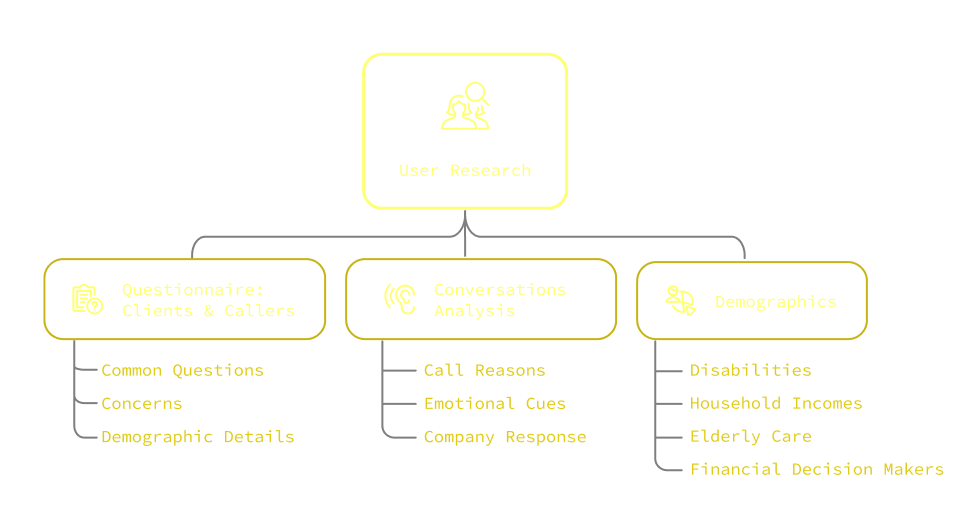
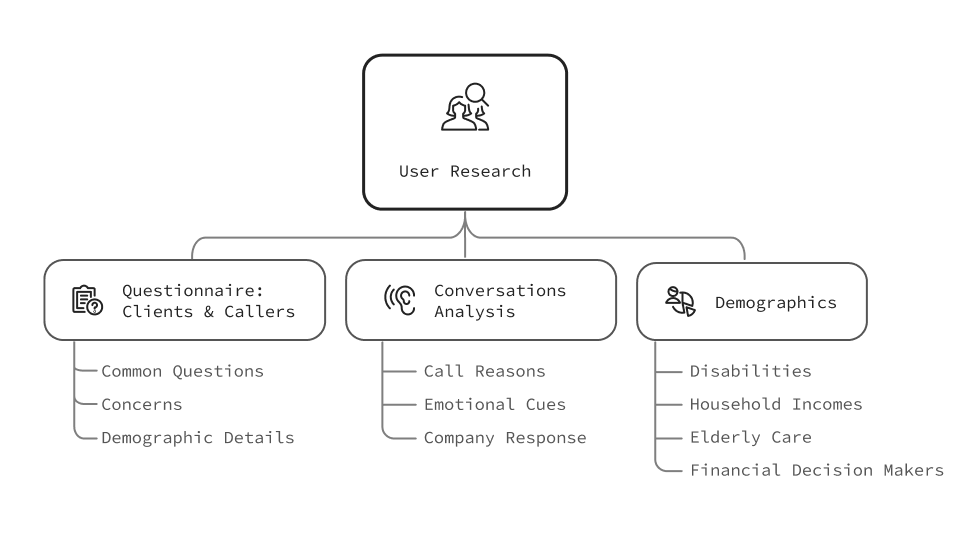
clean up images and css styles

diff --git a/styles/style.scss b/styles/style.scss
@@ -9,13 +9,14 @@
     text-rendering: optimizeLegibility;
 }
 
-// VARIABLES
-// FONTS
+/// VARIABLES
+// Fonts
 $display-font: "Lemon", serif;
 $body-font: "IBM Plex Sans", sans-serif;
 /* Color styles */
 $candy-white: #FFFEFA;
 $candy-black: #222222;
+$candy-black080: #464646;
 $candy-background: #FFFBE7;
 $candy-pink050: #FBDBE5;
 $candy-pink: #F5B7CA;
@@ -30,41 +31,8 @@ $candy-link-inline: #2B40D9;
 $candy-purple: #A541D1;
 $candy-fucsia: #D406A1;
 
-/* Text-size styles 
---candy---h2: 60px;
---candy---h3: 26px;
---candy---h4: 22px;
---candy---h5: 20px;
---candy--p: 18px;
---candy--tag: 14px;
---candy--link--link-hover: 16px;
---candy--link--nav: 20px;
---candy--button--label: 20px;
-*/
-/* Effect styles 
---area: inset -4px -4px 8px rgba(255, 255, 255, 0.4),inset 4px 4px 12px rgba(0, 0, 0, 0.25);
---button-shadow:  0px 8px 8px rgba(0, 0, 0, 0.25);
---card-shadow:  0px 4px 4px rgba(120, 120, 120, 0.25);
---section--h2-shadow:  0px 2px 2px rgba(0, 0, 0, 0.5);
---sticker-shadow:  0px 10px 8px rgba(0, 0, 0, 0.25);*/
-
 //shadows
 $button-shadow: 0px 8px 8px rgba(0, 0, 0, 0.25);
-
-// COLORS
-$yellow030: rgba(228, 228, 10, .3);
-$yellow050: rgba(228, 228, 10, .5);
-$yellow080: rgba(228, 228, 10, .8);
-$yellow100: #4f4f94;
-$yellow000: #271d94;
-$yellow110: #464608;
-$white080: rgb(210, 210, 210);
-$white100: rgb(238, 238, 238);
-$whiteFFF: rgba(255, 255, 255);
-$pink100: #fb54a8;
-$pink040: #8f3a64;
-$black100: #0e0e0e;
-
 
 // DIMENSIONS
 @mixin mobile {
@@ -86,38 +54,6 @@ $black100: #0e0e0e;
 }
 
 // BORDERS
-@mixin outline-dashed() {
-    border-radius: 1px;
-    outline: 1px solid $yellow050;
-    outline-offset: 4px;
-}
-
-@mixin outline-hover {
-    border-radius: 1px;
-    outline: 1px solid $white100;
-    outline-offset: 4px;
-}
-
-@mixin border-dashed ($borderWidth, $color) {
-    color: $color;
-    border-radius: 1px;
-    border-style: dashed;
-    border-top-width: $borderWidth;
-    border-right-width: $borderWidth;
-    border-bottom-width: $borderWidth;
-    border-left-width: $borderWidth;
-}
-
-@mixin border-solid ($borderWidth, $radius, $color) {
-    color: $color;
-    border-radius: $radius;
-    border-style: solid;
-    border-top-width: $borderWidth;
-    border-right-width: $borderWidth;
-    border-bottom-width: $borderWidth;
-    border-left-width: $borderWidth;
-}
-
 @mixin border-1side-solid ($borderTopWidth, $borderRightWidth, $borderBottomWidth, $borderLeftWidth, $color) {
     color: $color;
     border-style: solid;
@@ -432,7 +368,7 @@ footer {
     p.label {
         line-height: 100%;
         margin: 12px 0 2px 0;
-        color: $yellow100;
+        color: $candy-yellow;
         width: 100%;
         padding: 0;
     }
@@ -700,7 +636,7 @@ footer {
     margin: 16px 0;
 
     .card-process-image {
-        border: 1px solid $yellow080;
+        border: 1px solid $candy-yellow150;
         min-width: 40px;
         display: none;
     }
@@ -755,9 +691,7 @@ footer {
 
 
 // WRAPPERS 
-.wrapper-border {
-    @include border-dashed(1px, $yellow030);
-}
+
 
 .wrapper-contacts {
     display: grid;
@@ -928,11 +862,11 @@ a.link {
     }
 
     &.disabled {
-        color: $yellow050;
+        color: #777;
         cursor: not-allowed;
 
         svg {
-            fill: $yellow050;
+            fill: #777;
         }
     }
 
@@ -1052,7 +986,7 @@ a.link {
 
 figcaption,
 details summary {
-    color: $yellow080;
+    color: $candy-yellow150
 }
 
 img {
@@ -1214,7 +1148,7 @@ strong {
     p {
         margin: 0;
         padding: 0;
-        color: $black100;
+        color: $candy-black;
     }
 
     ol,
@@ -1225,7 +1159,7 @@ strong {
 
     p,
     li {
-        color: $black100;
+        color: $candy-black;
         font-size: 0.75em;
         line-height: 14px;
         margin-bottom: 0;
@@ -1662,7 +1596,7 @@ strong {
 
     img {
         margin-bottom: 4px;
-        @include border-1side-solid(1px, 1px, 1px, 1px, $yellow050);
+        @include border-1side-solid(1px, 1px, 1px, 1px, $candy-yellow150);
 
         &.no-border {
             border: none;
@@ -1740,7 +1674,7 @@ strong {
     }
 
     details {
-        color: $white080;
+        color: $candy-black;
 
         summary {
             color: $candy-black;
@@ -1749,8 +1683,6 @@ strong {
     }
 
 }
-
-
 
 
 // GRIDS
@@ -1790,11 +1722,6 @@ strong {
     .section-header {
         padding-bottom: 16px;
     }
-
-    //.resume-column {
-    //padding-left: 24px;
-    //padding-right: 24px;
-    //}
 
     img {
         width: 48px;
@@ -2247,7 +2174,7 @@ figure {
         }
 
         .p {
-            color: $white080;
+            color: $candy-black;
             font-size: 1em;
         }
     }
@@ -2273,9 +2200,9 @@ figure {
     }
 
     p.label {
-        font-size: .8em;
+        font-size: .9em;
         font-style: italic;
-        
+        color: $candy-pink150;        
     }
 
     .protos-header {

diff --git a/styles/style.css b/styles/style.css
@@ -9,23 +9,6 @@
 }
 
 /* Color styles */
-/* Text-size styles 
---candy---h2: 60px;
---candy---h3: 26px;
---candy---h4: 22px;
---candy---h5: 20px;
---candy--p: 18px;
---candy--tag: 14px;
---candy--link--link-hover: 16px;
---candy--link--nav: 20px;
---candy--button--label: 20px;
-*/
-/* Effect styles 
---area: inset -4px -4px 8px rgba(255, 255, 255, 0.4),inset 4px 4px 12px rgba(0, 0, 0, 0.25);
---button-shadow:  0px 8px 8px rgba(0, 0, 0, 0.25);
---card-shadow:  0px 4px 4px rgba(120, 120, 120, 0.25);
---section--h2-shadow:  0px 2px 2px rgba(0, 0, 0, 0.5);
---sticker-shadow:  0px 10px 8px rgba(0, 0, 0, 0.25);*/
 html {
   height: 100%;
 }
@@ -279,7 +262,7 @@ footer {
 .overview-grid p.label {
   line-height: 100%;
   margin: 12px 0 2px 0;
-  color: #4f4f94;
+  color: #FCC047;
   width: 100%;
   padding: 0;
 }
@@ -481,7 +464,7 @@ footer {
   margin: 16px 0;
 }
 .card-process .card-process-image {
-  border: 1px solid rgba(228, 228, 10, 0.8);
+  border: 1px solid #B87E0A;
   min-width: 40px;
   display: none;
 }
@@ -523,16 +506,6 @@ footer {
     width: 100%;
     display: block;
   }
-}
-
-.wrapper-border {
-  color: rgba(228, 228, 10, 0.3);
-  border-radius: 1px;
-  border-style: dashed;
-  border-top-width: 1px;
-  border-right-width: 1px;
-  border-bottom-width: 1px;
-  border-left-width: 1px;
 }
 
 .wrapper-contacts {
@@ -672,11 +645,11 @@ a.link.link-nav-nav {
   font-weight: 700;
 }
 a.link.disabled {
-  color: rgba(228, 228, 10, 0.5);
+  color: #777;
   cursor: not-allowed;
 }
 a.link.disabled svg {
-  fill: rgba(228, 228, 10, 0.5);
+  fill: #777;
 }
 a.link .hidden {
   visibility: hidden;
@@ -769,7 +742,7 @@ a.link:focus-visible .icon-house, a.link:hover:not(:disabled):not([disabled]) .i
 
 figcaption,
 details summary {
-  color: rgba(228, 228, 10, 0.8);
+  color: #B87E0A;
 }
 
 img {
@@ -919,7 +892,7 @@ strong {
 .wrapper-visual p {
   margin: 0;
   padding: 0;
-  color: #0e0e0e;
+  color: #222222;
 }
 .wrapper-visual ol,
 .wrapper-visual ul {
@@ -927,7 +900,7 @@ strong {
 }
 .wrapper-visual p,
 .wrapper-visual li {
-  color: #0e0e0e;
+  color: #222222;
   font-size: 0.75em;
   line-height: 14px;
   margin-bottom: 0;
@@ -1271,7 +1244,7 @@ strong {
 .case-study .case-study-tltr img,
 .case-study .case-study-full img {
   margin-bottom: 4px;
-  color: rgba(228, 228, 10, 0.5);
+  color: #B87E0A;
   border-style: solid;
   border-top-width: 1px;
   border-right-width: 1px;
@@ -1351,7 +1324,7 @@ strong {
   height: auto;
 }
 .wrapper-text details {
-  color: rgb(210, 210, 210);
+  color: #222222;
 }
 .wrapper-text details summary {
   color: #222222;
@@ -1749,7 +1722,7 @@ figure .pics-grid .pic-frida {
   font-size: 1.5em;
 }
 .landing-list li .p {
-  color: rgb(210, 210, 210);
+  color: #222222;
   font-size: 1em;
 }
 
@@ -1769,8 +1742,9 @@ figure .pics-grid .pic-frida {
   padding: 0;
 }
 .protos p.label {
-  font-size: 0.8em;
+  font-size: 0.9em;
   font-style: italic;
+  color: #D96689;
 }
 .protos .protos-header {
   display: flex;
